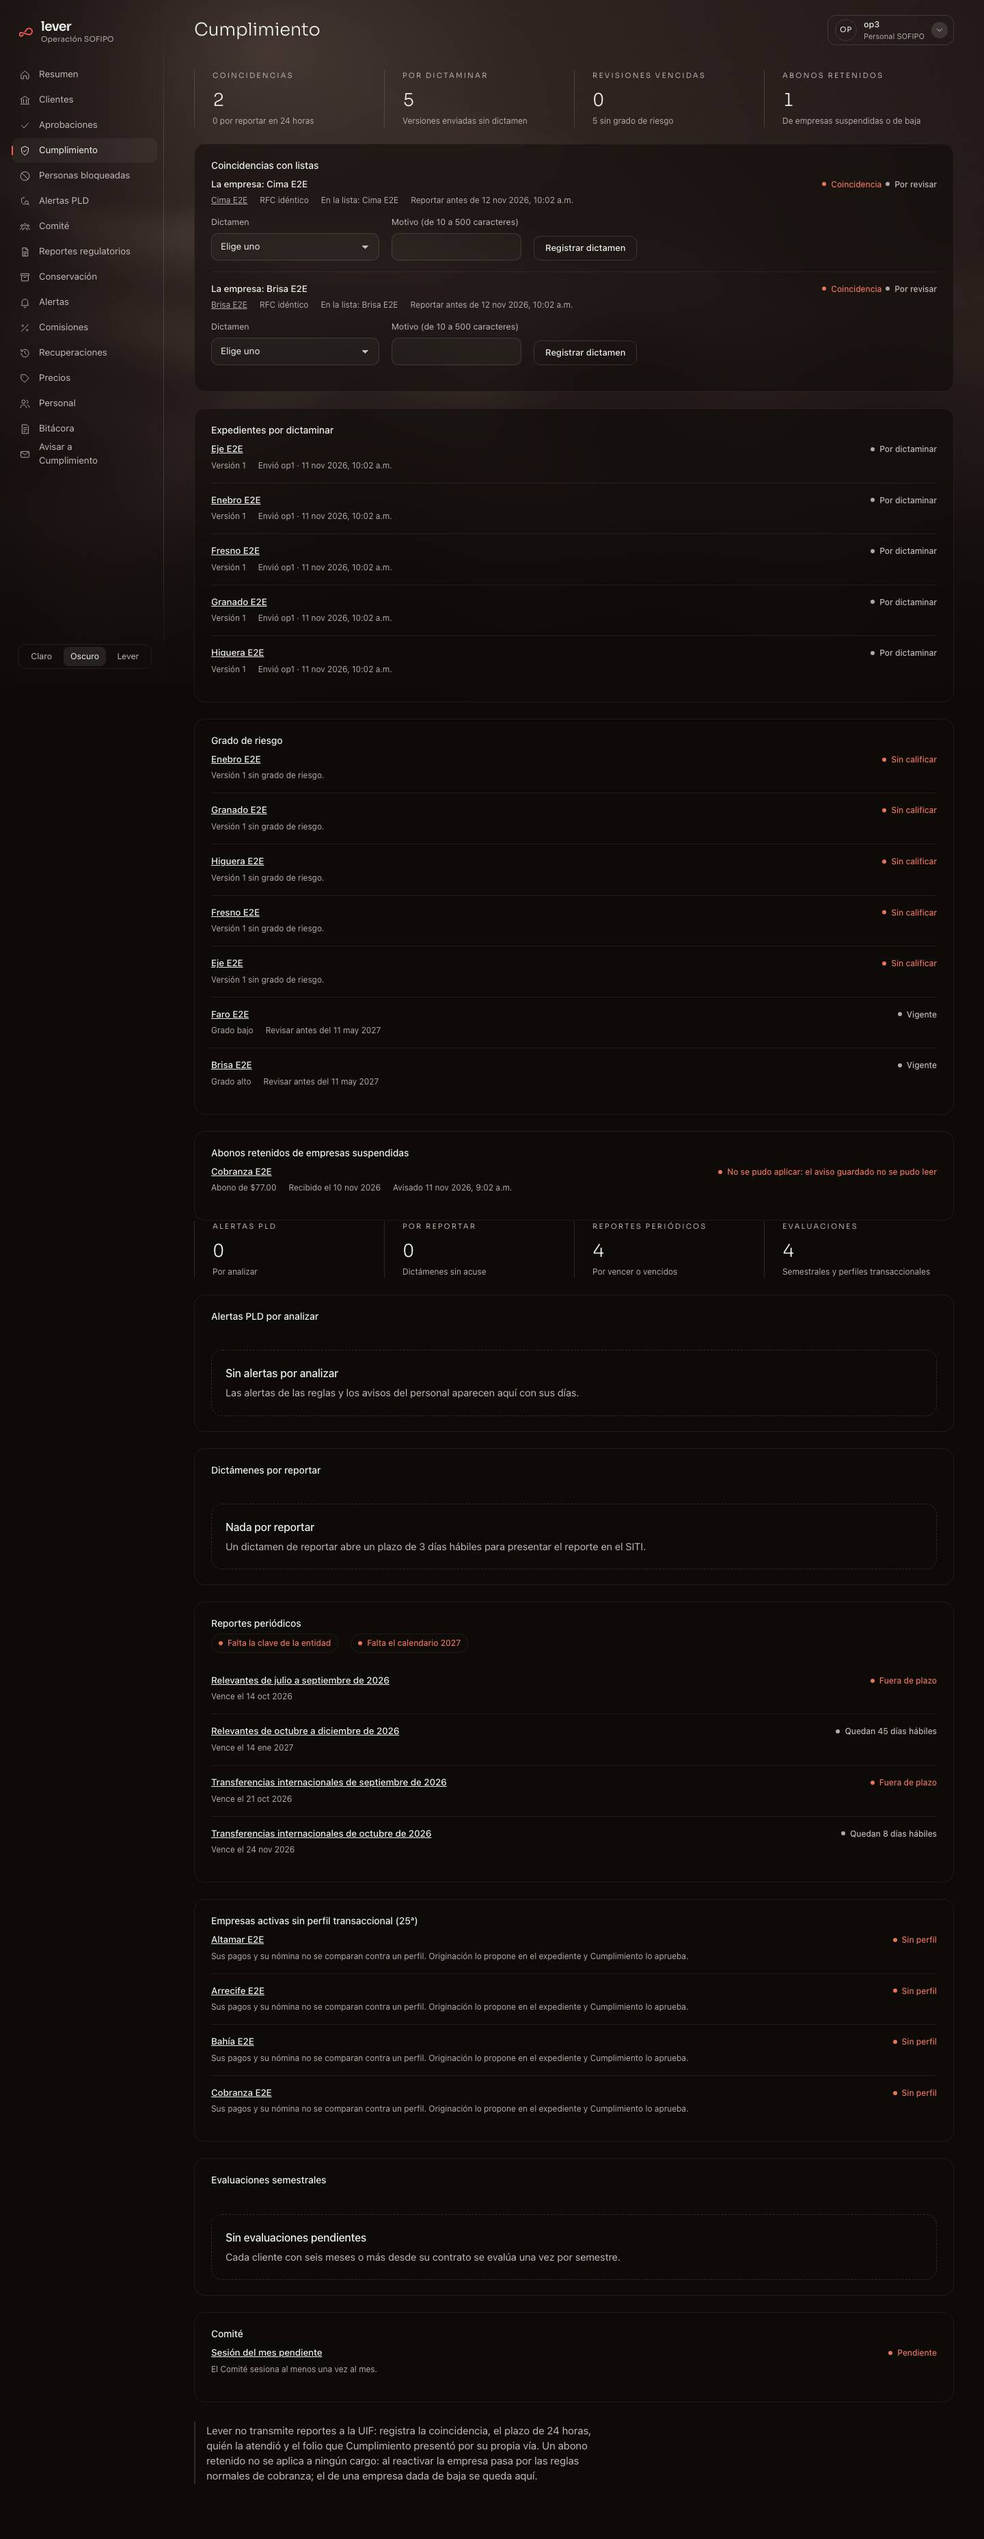
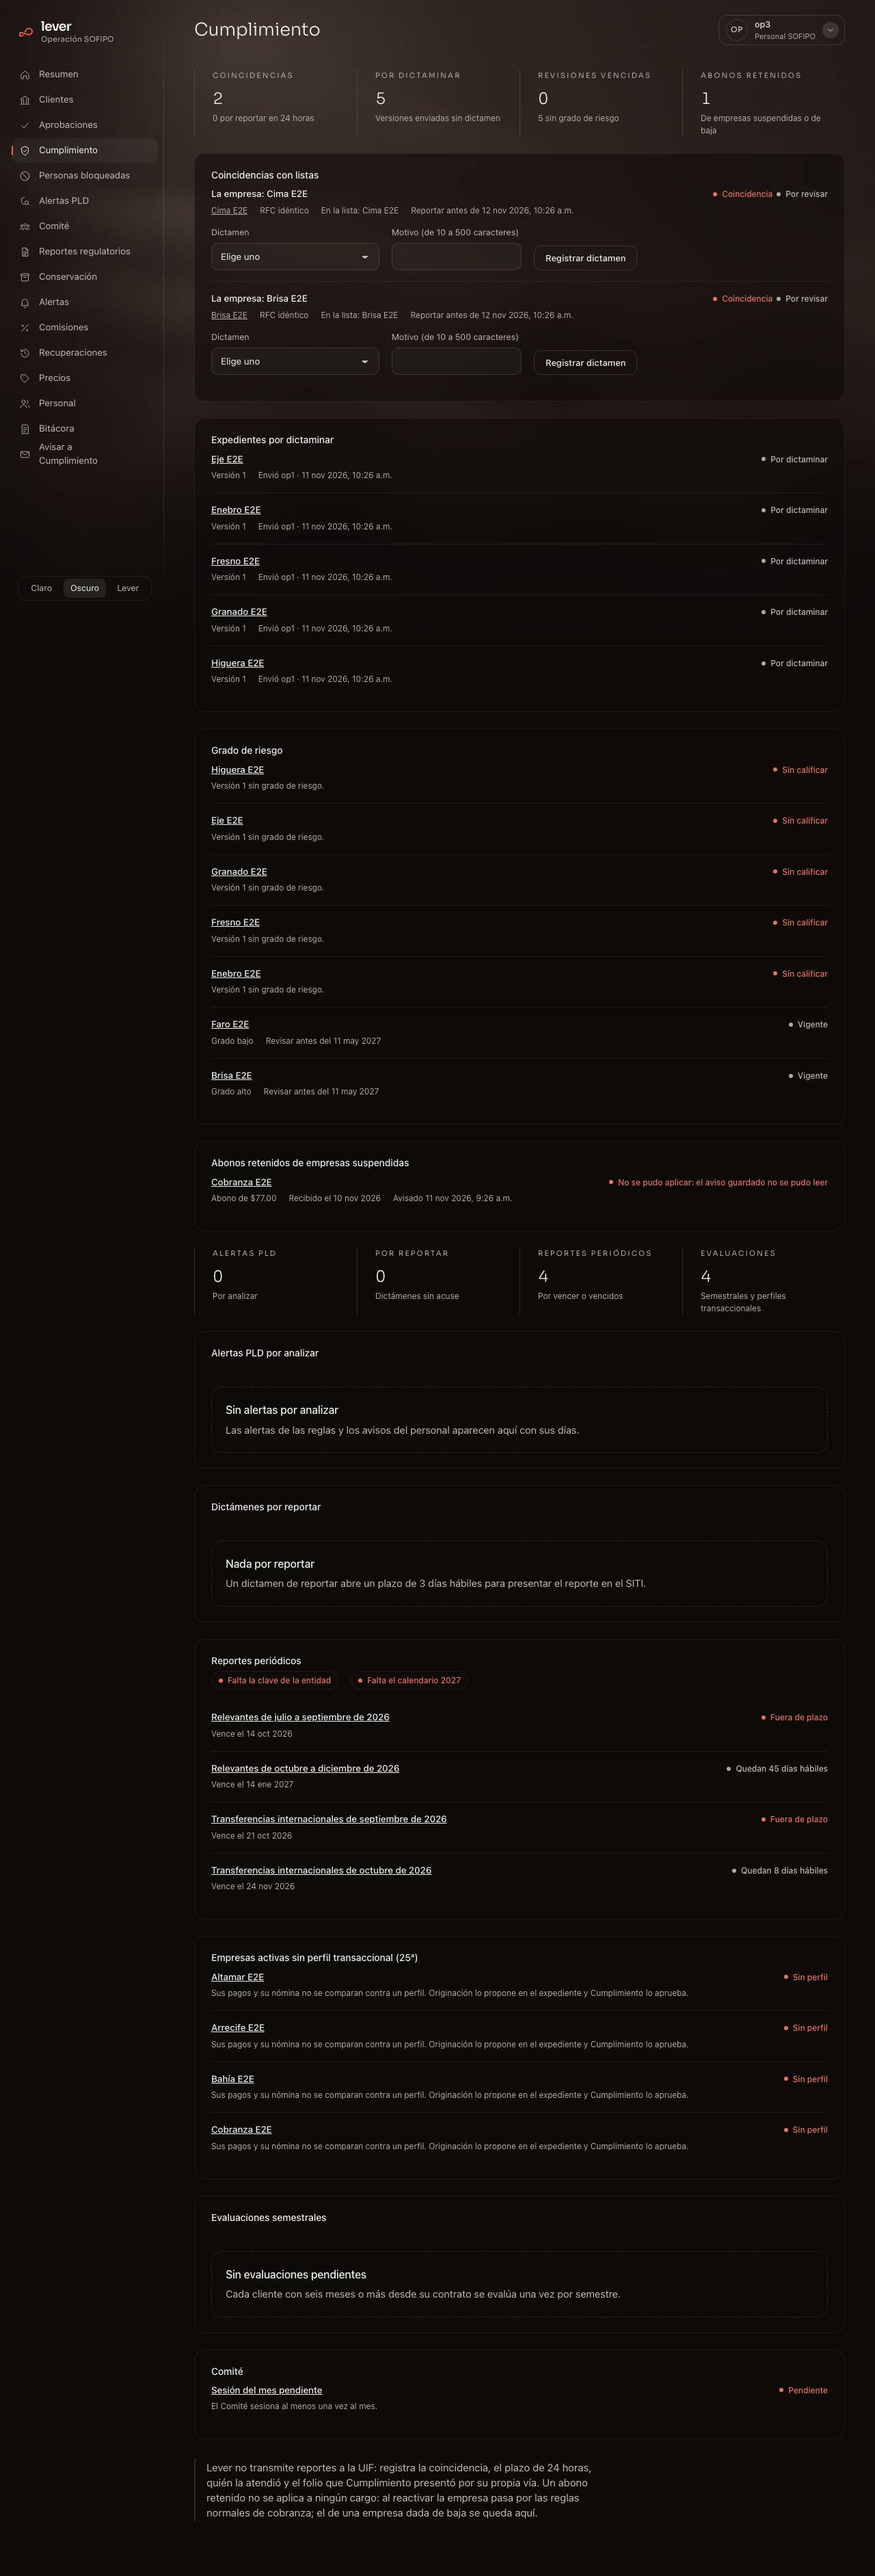
r63m: el disparador exige una hora entre intentos contados; la tarea reintenta el correo de un fallido que no salió; la tarjeta de retenidos se separa de las métricas de PLD
- 0031: un intento contado lleva una hora al menos una hora después del anterior, también para la dueña; nueva definer cobranza_fallidos_sin_aviso (con pg_temp).
- La tarea diaria (paso 0b, con su propio try) vuelve a avisar los fallidos sin un evento con enviados > 0, con la misma llave y un evento por intento.
- operacion.css: tarjeta seguida de métricas con el margen de 24 px de siempre; tokens.css no cambia.
- Pruebas: reglas-base (hora del pasado y dentro de la misma hora), retenidos-postgres (caído, de vuelta una vez, tercera sin reenvío); contrapruebas en rojo. Recorrido mide 24 px a 1280 y 390, con capturas.

diff --git a/src/server/cobranza/fintoc.ts b/src/server/cobranza/fintoc.ts
@@ -609,9 +609,10 @@ type DatosRetenido = { devolucion: boolean; montoCentavos: number; recibidoEl: s
  * Decisión de Gil (2026-11-11): un retenido que queda fallido se avisa por correo a administración y finanzas de la
  * empresa (avisarAlEquipo: solo personas activas de esa empresa con esos roles), además de la bandeja de Cumplimiento.
  * Una sola vez: un retenido queda fallido una vez y la llave de idempotencia es la del retenido. Si el envío falla, el
- * fallido no se deshace; el evento de la bitácora dice cuántos correos salieron (0 si ninguno).
+ * fallido no se deshace; el evento de la bitácora dice cuántos correos salieron (0 si ninguno), y la tarea diaria lo
+ * vuelve a intentar con la misma llave mientras ninguno haya salido (r63m, reavisarFallidos).
  */
-async function avisarRetenidoFallido(empresa: Destino, id: string, d: DatosRetenido, deps: DepsRetenidos): Promise<void> {
+async function avisarRetenidoFallido(empresa: Destino, id: string, d: DatosRetenido, deps: DepsRetenidos): Promise<number> {
   let enviados = 0;
   try {
     const fila = await conContexto(baseDe(empresa), async (consulta) =>
@@ -634,6 +635,37 @@ async function avisarRetenidoFallido(empresa: Destino, id: string, d: DatosReten
   } catch {
     registrar("error", "aviso_retenido_fallido_sin_bitacora", { enviados });
   }
+  return enviados;
+}
+
+/** Lo que el correo de un retenido necesita de su fila guardada: monto, fecha, tipo y referencia, sin el ordenante. */
+function datosDeRetenido(fila: Record<string, unknown>): DatosRetenido {
+  const aviso = fila.aviso as AvisoFintoc | null;
+  return {
+    devolucion: texto(fila.tipo) === "transfer.inbound.returned",
+    montoCentavos: centavos(fila.monto),
+    recibidoEl: texto(fila.recibido_el),
+    referencia: aviso?.abono?.referencia ?? aviso?.devolucion?.referencia ?? null,
+  };
+}
+
+/**
+ * r63m: los fallidos de la empresa cuyo correo no salió (el envío falló: la bitácora dice enviados 0) se vuelven a avisar
+ * con la misma llave de idempotencia, uno por uno, con un evento por intento. Lo llama la tarea diaria. Devuelve cuántos
+ * quedaron avisados.
+ */
+export async function reavisarFallidos(empresaId: string, operadorId: string, deps: DepsRetenidos): Promise<number> {
+  const empresa: Destino = { empresaId, operadorId, clienteDeLaCuenta: null };
+  const filas = await conContexto(baseDe(empresa), async (consulta) =>
+    (await aplicarSentencia(
+      consulta,
+      "select id, aviso, tipo, monto_centavos::text as monto, recibido_el::text as recibido_el from cobranza_fallidos_sin_aviso()",
+    )).rows.map(registro));
+  let avisados = 0;
+  for (const fila of filas) {
+    if ((await avisarRetenidoFallido(empresa, texto(fila.id), datosDeRetenido(fila), deps)) > 0) avisados += 1;
+  }
+  return avisados;
 }
 
 /**
@@ -673,12 +705,7 @@ export async function procesarRetenidos(empresaId: string, operadorId: string, d
         if (!fila) return null;
         pendiente = texto(fila.id);
         const aviso = fila.aviso as AvisoFintoc;
-        datos = {
-          devolucion: texto(fila.tipo) === "transfer.inbound.returned",
-          montoCentavos: centavos(fila.monto),
-          recibidoEl: texto(fila.recibido_el),
-          referencia: aviso?.abono?.referencia ?? aviso?.devolucion?.referencia ?? null,
-        };
+        datos = datosDeRetenido(fila);
         const t = aviso.abono ?? aviso.devolucion;
         // Un aviso guardado sin abono ni devolución no se aplicará nunca: permanente, no pasajero (r63k-N2).
         if (!t) throw new ErrorDeDominio("aviso_ilegible");

diff --git a/tests/cobranza/retenidos-postgres.test.ts b/tests/cobranza/retenidos-postgres.test.ts
@@ -321,11 +321,33 @@ async function escenario(url: string): Promise<void> {
     assert.equal(cuenta(`select count(*) from collection_held_events where company_id = '${beta.id}' and estado = 'fallido'`), 1);
     // Si el envío del aviso falla, el retenido sigue fallido y la bitácora dice que salieron 0 correos.
     retenidoFallido(beta.id, "evt_Envenenado03");
-    const caido = () => async () => { throw new Error("el proveedor de correo no respondió"); };
+    const intentadas: string[] = [];
+    const caido = () => async (m: MensajeCorreo) => { intentadas.push(m.idempotencia); throw new Error("el proveedor de correo no respondió"); };
     assert.equal(await procesarRetenidos(beta.id, operador, { auditar, enviador: caido, urlPublica: () => "https://lever.ejemplo.mx" }), 1);
     assert.equal(cuenta(`select count(*) from collection_held_events where evento_id = 'evt_Envenenado03' and estado = 'fallido'`), 1);
-    assert.equal(cuenta(`select count(*) from audit_log a join collection_held_events h on h.id = a.identificador
-      where h.evento_id = 'evt_Envenenado03' and a.accion = 'aviso_retenido_fallido_cobranza' and a.cambio->>'enviados' = '0'`), 1);
+    const avisosDe03 = (enviados: string) => cuenta(`select count(*) from audit_log a join collection_held_events h on h.id = a.identificador
+      where h.evento_id = 'evt_Envenenado03' and a.accion = 'aviso_retenido_fallido_cobranza' and a.cambio->>'enviados' ${enviados}`);
+    assert.equal(avisosDe03("= '0'"), 1);
+    // r63m: con el proveedor todavía caído, la tarea lo intenta de nuevo y sigue en 0 (un evento por intento); con el
+    //    proveedor de vuelta, la siguiente corrida lo manda una vez, con la misma llave, y la tercera ya no lo reenvía.
+    const id03 = consultarJson<{ id: string }[]>(url, "select json_agg(x) from (select id from collection_held_events where evento_id = 'evt_Envenenado03') x")[0]!.id;
+    const del03 = (m: MensajeCorreo) => m.idempotencia.startsWith(`cobranza-retenido-fallido/${id03}/`);
+    assert.ok(intentadas.length > 0 && intentadas.every((l) => l.startsWith(`cobranza-retenido-fallido/${id03}/`)));
+    const buzonBeta: MensajeCorreo[] = [];
+    const alBuzonBeta = () => async (m: MensajeCorreo) => { buzonBeta.push(m); return { id: randomUUID() }; };
+    const corrida = (enviador: typeof alBuzonBeta | typeof caido) =>
+      correrCobranza({ ahora: reloj("2027-01-10T18:00:00.000Z"), auditar, enviador, urlPublica: () => "https://lever.ejemplo.mx", fintoc: null, registrar: () => {} });
+    await corrida(caido);
+    assert.equal(avisosDe03("= '0'"), 2);
+    assert.equal(avisosDe03("<> '0'"), 0);
+    await corrida(alBuzonBeta);
+    const reenviados = buzonBeta.filter(del03);
+    assert.deepEqual(reenviados.map((m) => m.idempotencia).sort(), [...new Set(intentadas.filter((l) => l.startsWith(`cobranza-retenido-fallido/${id03}/`)))].sort(), "la misma llave que el intento caído");
+    assert.ok(reenviados.every((m) => m.asunto.startsWith("Un depósito de $77.00 no se registró solo")));
+    assert.equal(avisosDe03(`= '${reenviados.length}'`), 1);
+    await corrida(alBuzonBeta);
+    assert.equal(buzonBeta.filter(del03).length, reenviados.length, "la tercera corrida no lo reenvía");
+    assert.equal(avisosDe03("is not null"), 3);
 
     // r63j-N2 a) El aviso toma el candado y retiene (la empresa sigue suspendida) mientras la reactivación espera ese
     //    mismo candado: al reactivar, el retenido ya está ahí y se aplica. Antes el aviso revisaba en una transacción y

diff --git a/tests/cobranza/reglas-base.test.ts b/tests/cobranza/reglas-base.test.ts
@@ -473,6 +473,15 @@ async function reglas(app: string, ids: Ids, duena: string): Promise<void> {
       values ('${randomUUID()}', '${B}', 'fintoc', 'evt_NaceConIntentos', 'transfer.inbound.succeeded', 1, '2026-11-10', '${aviso("evt_NaceConIntentos")}'::jsonb, 5, now())`), /cobranza_inmutable/);
     assert.throws(() => ejecutar(duena, `insert into collection_held_events (id, company_id, proveedor, evento_id, tipo, monto_centavos, recibido_el, aviso, estado, procesado_en, efecto)
       values ('${randomUUID()}', '${B}', 'fintoc', 'evt_NaceProcesado', 'transfer.inbound.succeeded', 1, '2026-11-10', '${aviso("evt_NaceProcesado")}'::jsonb, 'procesado', now(), 'registrado')`), /cobranza_inmutable/);
+    // r63m: un intento contado va al menos una hora después del anterior, también si lo escribe la dueña: ni una hora
+    // del pasado ni una dentro de la misma hora.
+    const horaDuena = randomUUID();
+    ejecutar(duena, `insert into collection_held_events (id, company_id, proveedor, evento_id, tipo, monto_centavos, recibido_el, aviso)
+      values ('${horaDuena}', '${B}', 'fintoc', 'evt_HoraDuena', 'transfer.inbound.succeeded', 1, '2026-11-10', '${aviso("evt_HoraDuena")}'::jsonb);
+      update collection_held_events set intentos = 1, ultimo_intento_en = '2026-11-10 12:00Z' where id = '${horaDuena}';`);
+    assert.throws(() => ejecutar(duena, `update collection_held_events set intentos = 2, ultimo_intento_en = '2026-11-10 10:00Z' where id = '${horaDuena}'`), /cobranza_inmutable/);
+    assert.throws(() => ejecutar(duena, `update collection_held_events set intentos = 2, ultimo_intento_en = '2026-11-10 12:59Z' where id = '${horaDuena}'`), /cobranza_inmutable/);
+    ejecutar(duena, `update collection_held_events set intentos = 2, ultimo_intento_en = '2026-11-10 13:00Z' where id = '${horaDuena}'`);
     // Con un reloj que avanza una hora en cada intento (solo en esta base desechable): al quinto intento contado queda
     // fallido. Los intentos van de uno en uno.
     ejecutar(duena, `create sequence reloj_retenidos; create or replace function cobranza_retenidos_ahora() returns timestamptz

diff --git a/src/server/cobranza/tarea.ts b/src/server/cobranza/tarea.ts
@@ -10,7 +10,7 @@ import { marcarRitmo, RITMO_MS } from "../flujo/correo-semanal";
 import { booleano, entero, registro, texto } from "../flujo/lectura";
 import { actorDeSistema, baseDeSistema, generarCargos } from "./comun";
 import { enviarCorreoDeCargo, registrarPorDefecto, type PasoCorreo, type ResultadoCorreo } from "./correo";
-import { asegurarClabeDeCliente, clienteHttpFintoc, configFintoc, procesarRetenidos, type ClienteFintoc } from "./fintoc";
+import { asegurarClabeDeCliente, clienteHttpFintoc, configFintoc, procesarRetenidos, reavisarFallidos, type ClienteFintoc } from "./fintoc";
 import { fechaDe, leerConfiguracion } from "./repositorio";
 
 /**
@@ -99,6 +99,13 @@ export async function correrCobranza(deps: DependenciasTarea = {}): Promise<Resu
         if (retenidos > 0) registrar({ evento: "cobranza_retenidos_procesados", empresa: empresaId, retenidos });
       } catch (error) {
         registrar({ evento: "cobranza_retenidos_pendientes", empresa: empresaId, codigo: error instanceof ErrorDeDominio ? error.codigo : "desconocido" });
+      }
+      // 0b. r63m: el correo de los fallidos que no salió (el proveedor de correo caído) se vuelve a intentar.
+      try {
+        const reavisados = await reavisarFallidos(empresaId, operadorId, { auditar, enviador: deps.enviador, urlPublica: deps.urlPublica });
+        if (reavisados > 0) registrar({ evento: "cobranza_fallidos_reavisados", empresa: empresaId, reavisados });
+      } catch (error) {
+        registrar({ evento: "cobranza_fallidos_sin_reaviso", empresa: empresaId, codigo: error instanceof ErrorDeDominio ? error.codigo : "desconocido" });
       }
       // 1. Cargos.
       const generados = await conContexto(base, async (consulta) => {

diff --git a/src/estilo/operacion.css b/src/estilo/operacion.css
@@ -373,6 +373,7 @@ form + .operacion-lista {
 
 .operacion-pagina > .operacion-confirmar + .hoja,
 .operacion-pagina > .metricas + .hoja,
+.operacion-pagina > .hoja + .metricas,
 .operacion-pagina > .operacion-ficha-cabeza + .hoja {
   margin-top: 24px;
 }

diff --git a/docs/evidencia/cobranza/README.md b/docs/evidencia/cobranza/README.md
@@ -210,7 +210,15 @@ Unos 120-130 MB son la base del proceso. El tope de RSS ahora lo pone un libro l
 | id | Arreglo | Prueba (cae al revertir su arreglo) |
 |---|---|---|
 | **r63l-N1 (P2)** Los cinco intentos se quemaban en 50 s con una contención breve: un abono sin nada malo quedaba fallido para siempre | Se cuenta **un intento por hora** (`ultimo_intento_en`): dentro de esa hora el error pasajero detiene igual la corrida y deja el retenido pendiente, sin contar. Queda fallido tras al menos 4 h de falla persistente. La hora se lee de `cobranza_retenidos_ahora()`, que es `now()` y existe aparte para que las pruebas simulen el paso del tiempo. El disparador solo deja cambiar `ultimo_intento_en` junto con un intento contado, y un retenido nace pendiente, con 0 intentos y sin hora, también si lo inserta la dueña (r63l-P3) | `retenidos-postgres`: 5 avisos de la empresa seguidos, con la bitácora sin responder, dejan el retenido pendiente con 1 intento, y el siguiente aviso lo aplica. Sin la regla de la hora, «Expected 1». Cinco intentos con una hora entre cada uno lo dejan fallido. `reglas-base`: cinco en la misma hora no lo dejan fallido; un INSERT con intentos o ya procesado se rechaza |
-| **Gil: un fallido se avisa por correo a administración y finanzas de la empresa**; sin botón de reintentar | Con cualquier fallido (de regla, al primer intento, o por el tope), `avisarAlEquipo` manda un correo solo a las personas activas de esa empresa con rol `administrador` o `finanzas`, con la llave `cobranza-retenido-fallido/<id>` (un retenido queda fallido una sola vez). En lenguaje llano: el monto, la fecha del depósito, la referencia si la hay, que el dinero sí llegó pero no se registró solo y que lo registren a mano para que se detengan los recordatorios. No lleva datos del ordenante ni el código del error, y usa el pie de siempre. La bitácora deja `aviso_retenido_fallido_cobranza` con cuántos correos salieron, 0 si el envío falla; el fallido no se deshace | `retenidos-postgres`: el fallido de Alfa llega a su administrador y a su persona de finanzas, y a nadie más (ni a la contadora, ni a Beta). Sin datos del ordenante ni el código. La segunda corrida no lo reenvía. Con el proveedor de correo caído, el retenido sigue fallido y la bitácora dice 0. Sin el aviso, cae en los destinatarios. El recorrido verifica el correo y lo captura (`retenidos-correo-fallido.jpg`) |
+| **Gil: un fallido se avisa por correo a administración y finanzas de la empresa**; sin botón de reintentar | Con cualquier fallido (de regla, al primer intento, o por el tope), `avisarAlEquipo` manda un correo solo a las personas activas de esa empresa con rol `administrador` o `finanzas`, con la llave `cobranza-retenido-fallido/<id>` (un retenido queda fallido una sola vez; si el envío falla, la tarea diaria lo reintenta con la misma llave, r63m-2). En lenguaje llano: el monto, la fecha del depósito, la referencia si la hay, que el dinero sí llegó pero no se registró solo y que lo registren a mano para que se detengan los recordatorios. No lleva datos del ordenante ni el código del error, y usa el pie de siempre. La bitácora deja `aviso_retenido_fallido_cobranza` con cuántos correos salieron, 0 si el envío falla; el fallido no se deshace | `retenidos-postgres`: el fallido de Alfa llega a su administrador y a su persona de finanzas, y a nadie más (ni a la contadora, ni a Beta). Sin datos del ordenante ni el código. La segunda corrida no lo reenvía. Con el proveedor de correo caído, el retenido sigue fallido y la bitácora dice 0. Sin el aviso, cae en los destinatarios. El recorrido verifica el correo y lo captura (`retenidos-correo-fallido.jpg`) |
+
+**Pre-revisión de r63l (`27b1142`): tres P3 en el mismo PR**
+
+| id | Arreglo | Prueba (cae al revertir su arreglo) |
+|---|---|---|
+| r63m-1 Un intento contado con una hora del pasado pasaba (solo la dueña) | El disparador exige que el intento contado lleve una hora al menos una hora después del anterior, la misma regla de `cobranza_retenido_reintento` | `reglas-base`: la dueña suma un intento con la hora de dos horas antes y con la de 59 minutos después: los dos se rechazan; con una hora exacta pasa. Sin el arreglo: «Missing expected exception» |
+| r63m-2 Si el correo del fallido no salía, la empresa nunca se enteraba | La tarea diaria (paso 0b, con su propio try) vuelve a avisar los fallidos de la empresa sin un evento `aviso_retenido_fallido_cobranza` con `enviados > 0` (`cobranza_fallidos_sin_aviso`), con la misma llave `cobranza-retenido-fallido/<id>`; cada intento deja su evento en la bitácora | `retenidos-postgres`: con el proveedor caído, el aviso y la tarea dejan dos eventos con 0; con el proveedor de vuelta, la siguiente corrida lo manda una vez con la misma llave que el intento caído, y la tercera no lo reenvía. Sin el paso 0b: «Expected 2» |
+| r63m-3 La tarjeta de retenidos quedaba pegada a las métricas de PLD | `operacion.css`: una tarjeta seguida de una fila de métricas lleva el mismo margen de 24 px que métricas → tarjeta. `tokens.css` no cambia | El recorrido mide 24 px a 1280 y a 390 y captura `retenidos-bandeja-con-fallido.jpg` y `retenidos-bandeja-con-fallido-390.jpg` |
 
 **Por qué unas horas de 500 no pierden avisos** (documentación oficial de Fintoc, leída el 2026-11-12: https://docs.fintoc.com/guides/resources/webhooks-walkthrough/webhooks-creating-guide):
 - En modo `live`, Fintoc reintenta un aviso hasta 17 veces en unos 3 días, con espera exponencial desde 3 s.
